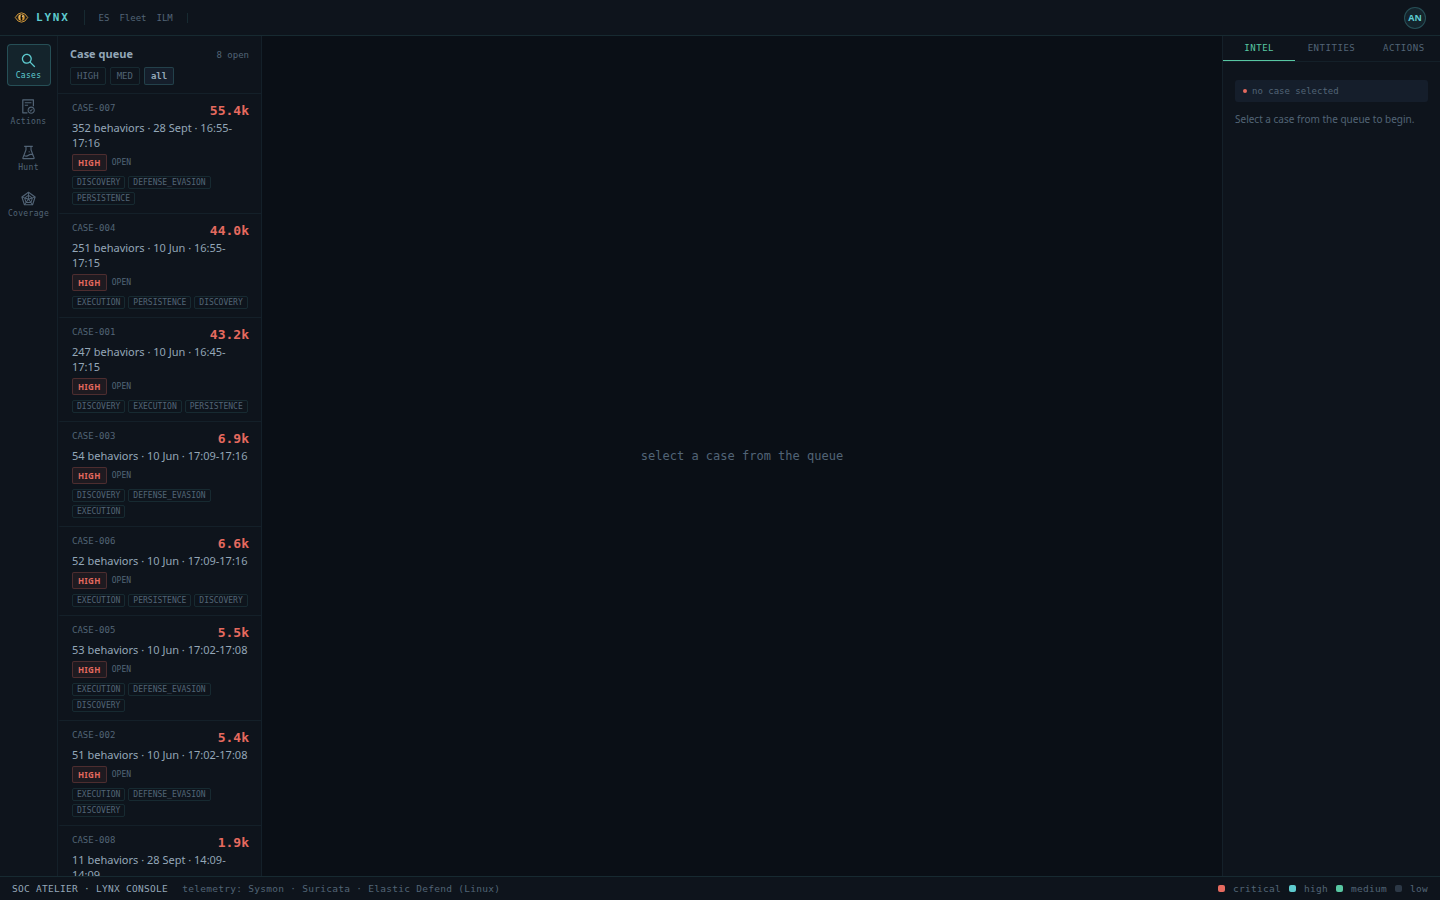
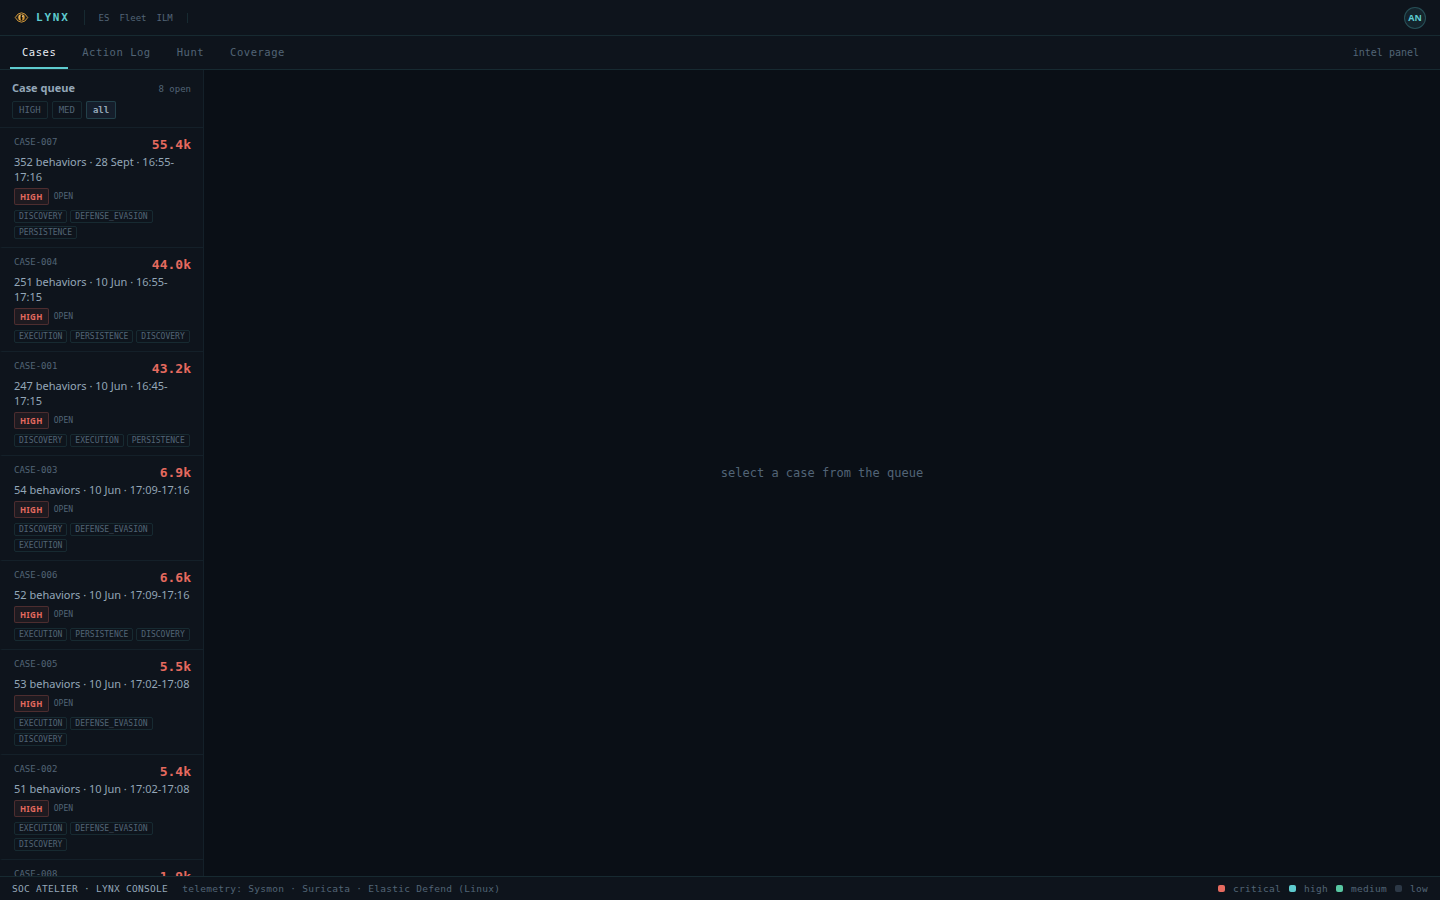
Console layout redesign: top tab navigation + collapsible intel drawer (replaces fixed three-pane workstation); fresh screenshots

diff --git a/lynx/frontend-react/src/components/TabStrip.tsx b/lynx/frontend-react/src/components/TabStrip.tsx
@@ -1,0 +1,54 @@
+// TabStrip -- horizontal view switcher + right-drawer toggle.
+// Replaces the old vertical icon rail: the workspace reads top-down,
+// and the Intel/Actions panel is a collapsible drawer, not a fixed rail.
+import { useLynx } from "../LynxContext"
+import type { View } from "../LynxContext"
+
+const TABS: { key: View; label: string }[] = [
+  { key: "investigation", label: "Cases" },
+  { key: "actions", label: "Action Log" },
+  { key: "hunt", label: "Hunt" },
+  { key: "coverage", label: "Coverage" },
+]
+
+export default function TabStrip({ showRight, setShowRight }: { showRight: boolean; setShowRight: (v: boolean) => void }) {
+  const { activeView, setActiveView } = useLynx()
+  return (
+    <div style={{
+      height: 34, flexShrink: 0, background: "var(--bg1)",
+      borderBottom: "1px solid var(--ln2)", display: "flex", alignItems: "stretch",
+      padding: "0 10px", gap: 2,
+    }}>
+      {TABS.map(({ key, label }) => {
+        const active = activeView === key
+        return (
+          <button
+            key={key}
+            onClick={() => setActiveView(key)}
+            style={{
+              background: "transparent", border: "none", cursor: "pointer",
+              padding: "0 12px", fontSize: 10.5, fontFamily: "var(--mono)",
+              letterSpacing: "0.05em", color: active ? "var(--t1)" : "var(--t3)",
+              borderBottom: active ? "2px solid var(--amb)" : "2px solid transparent",
+              transition: "color 0.12s, border-color 0.12s",
+            }}
+          >
+            {label}
+          </button>
+        )
+      })}
+      <span style={{ flex: 1 }} />
+      <button
+        onClick={() => setShowRight(!showRight)}
+        style={{
+          background: showRight ? "var(--amb2)" : "transparent",
+          border: showRight ? "1px solid var(--amb3)" : "1px solid transparent",
+          borderRadius: 3, cursor: "pointer", padding: "0 10px", margin: "5px 0",
+          fontSize: 10, fontFamily: "var(--mono)", color: showRight ? "var(--amb)" : "var(--t3)",
+        }}
+      >
+        {showRight ? "hide intel panel" : "intel panel"}
+      </button>
+    </div>
+  )
+}

diff --git a/lynx/frontend-react/src/App.tsx b/lynx/frontend-react/src/App.tsx
@@ -1,7 +1,8 @@
+import { useState } from "react"
 import { LynxProvider } from "./LynxContext"
 import { useLynx } from "./LynxContext"
 import TopBar from "./components/TopBar"
-import NavRail from "./components/NavRail"
+import TabStrip from "./components/TabStrip"
 import LeftRail from "./components/LeftRail"
 import RightRail from "./components/RightRail"
 import StatusBar from "./components/StatusBar"
@@ -13,17 +14,26 @@ import CoverageMap from "./pages/CoverageMap"
 // Inner component reads view from context — no prop drilling
 function AppInner() {
   const { activeView, setActiveView } = useLynx()
+  const [showRight, setShowRight] = useState(false)
   return (
     <div style={{ height: "100vh", display: "flex", flexDirection: "column", overflow: "hidden", background: "var(--bg0)" }}>
       <TopBar />
+      <TabStrip showRight={showRight} setShowRight={setShowRight} />
       <div style={{ flex: 1, display: "flex", overflow: "hidden", minHeight: 0 }}>
-        <NavRail />
         <LeftRail />
         {activeView === "investigation" && <Investigation />}
         {activeView === "actions"       && <ActionsLog onNavigateToInvestigation={() => setActiveView("investigation")} />}
         {activeView === "hunt"          && <HuntWorkbench />}
         {activeView === "coverage"      && <CoverageMap />}
-        {activeView === "investigation" && <RightRail />}
+        {activeView === "investigation" && showRight && (
+          <div style={{ width: 300, flexShrink: 0, display: "flex", flexDirection: "column", background: "var(--bg1)", borderLeft: "1px solid var(--ln2)" }}>
+            <div style={{ height: 26, display: "flex", alignItems: "center", justifyContent: "space-between", padding: "0 8px", borderBottom: "1px solid var(--ln2)", fontSize: 9.5, fontFamily: "var(--mono)", color: "var(--t3)" }}>
+              <span>INTEL / ACTIONS</span>
+              <span onClick={() => setShowRight(false)} style={{ cursor: "pointer", color: "var(--t2)" }}>close x</span>
+            </div>
+            <div style={{ flex: 1, overflow: "hidden" }}><RightRail /></div>
+          </div>
+        )}
       </div>
       <StatusBar />
     </div>
